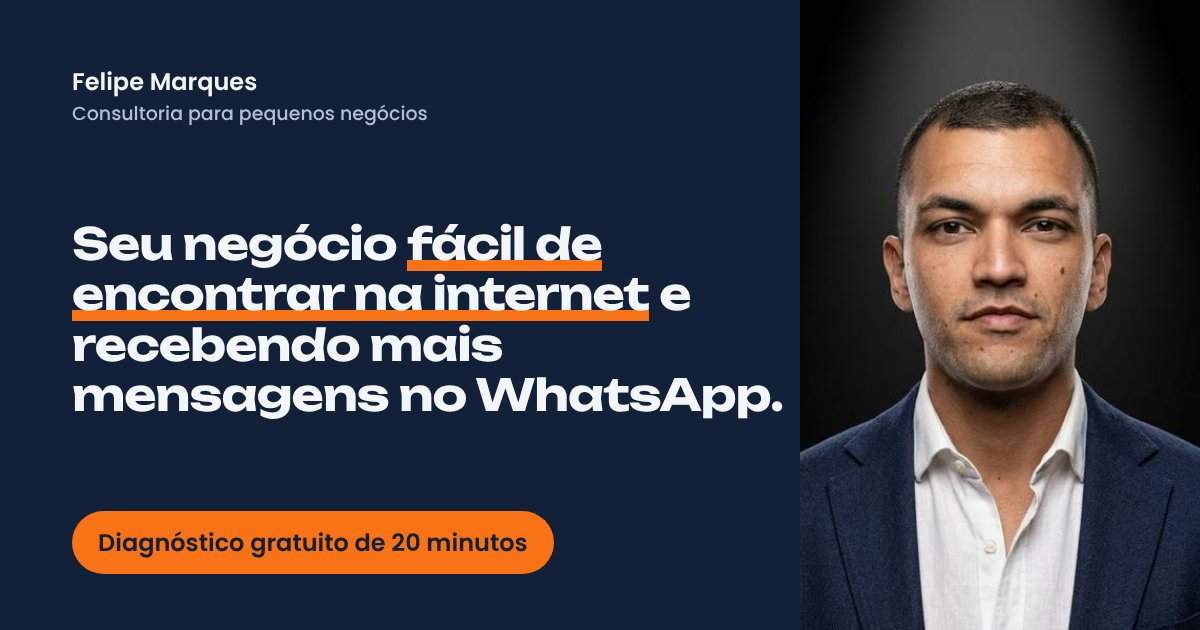
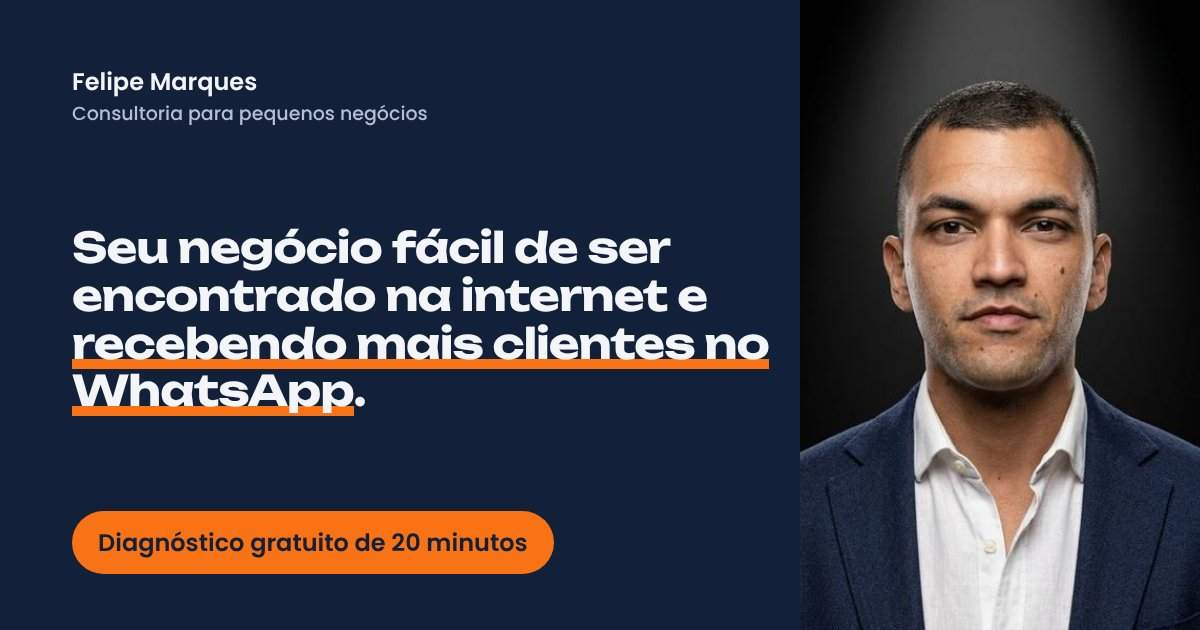
Frase do topo com ênfase em mais clientes no WhatsApp
Claude-Session: https://claude.ai/code/session_01GxkCX5cfxB46zdkTsUZ8nU

Changed region(s): [[0.0617, 0.3619, 0.6475, 0.6635]]

diff --git a/index.html b/index.html
@@ -4,7 +4,7 @@
 <meta charset="utf-8">
 <meta name="viewport" content="width=device-width, initial-scale=1, viewport-fit=cover">
 <title>Felipe Marques · Consultoria para pequenos negócios</title>
-<meta name="description" content="Seu negócio fácil de encontrar na internet e recebendo mais mensagens no WhatsApp. Perfil no Google, site e organização do negócio. Felipe Marques, de Duque de Caxias (RJ). Diagnóstico gratuito de 20 minutos.">
+<meta name="description" content="Seu negócio fácil de ser encontrado na internet e recebendo mais clientes no WhatsApp. Perfil no Google, site e organização do negócio. Felipe Marques, de Duque de Caxias (RJ). Diagnóstico gratuito de 20 minutos.">
 <link rel="canonical" href="https://fmarquesconsult.vercel.app/">
 <meta name="theme-color" content="#13203A">
 <script>try{var t=localStorage.getItem("tema");if(t==="light"||t==="dark")document.documentElement.setAttribute("data-theme",t)}catch(e){}</script>
@@ -13,7 +13,7 @@
 <meta property="og:type" content="website">
 <meta property="og:locale" content="pt_BR">
 <meta property="og:site_name" content="Felipe Marques">
-<meta property="og:title" content="Seu negócio fácil de encontrar na internet e recebendo mais mensagens no WhatsApp">
+<meta property="og:title" content="Seu negócio fácil de ser encontrado na internet e recebendo mais clientes no WhatsApp">
 <meta property="og:description" content="Consultoria para pequenos negócios. Diagnóstico gratuito de 20 minutos, sem compromisso.">
 <meta property="og:url" content="https://fmarquesconsult.vercel.app/">
 <meta property="og:image" content="https://fmarquesconsult.vercel.app/img/og.jpg">
@@ -53,7 +53,7 @@
   <section class="hero">
     <div class="hero-text">
       <p class="eyebrow">Consultoria para pequenos negócios</p>
-      <h1>Seu negócio <span class="mark">fácil de encontrar na internet</span> e recebendo mais mensagens no WhatsApp.</h1>
+      <h1>Seu negócio fácil de ser encontrado na internet e <span class="mark">recebendo mais clientes no WhatsApp</span>.</h1>
       <p class="lead">Eu cuido da presença digital e da organização do seu negócio: perfil no Google, site e WhatsApp trabalhando juntos, sem complicação e sem você precisar entender de tecnologia.</p>
       <div class="cta">
         <a class="btn" href="https://wa.me/5521976822900?text=Oi%20Felipe%2C%20preciso%20da%20sua%20ajuda%21" target="_blank" rel="noopener">
@@ -230,7 +230,7 @@
     <div class="me-text">
       <p class="eyebrow">Quem sou</p>
       <h2>Prazer, Felipe Marques.</h2>
-      <p>Ajudo pequenos negócios a serem encontrados na internet, receberem mais mensagens e entenderem o próprio dinheiro.</p>
+      <p>Ajudo pequenos negócios a serem encontrados na internet, receberem mais clientes no WhatsApp e entenderem o próprio dinheiro.</p>
       <p>O primeiro que organizei foi o da minha família, e é o mesmo cuidado que levo para o seu.</p>
       <p class="muted">Sou de Duque de Caxias, no Rio de Janeiro.</p>
       <div class="me-links">
